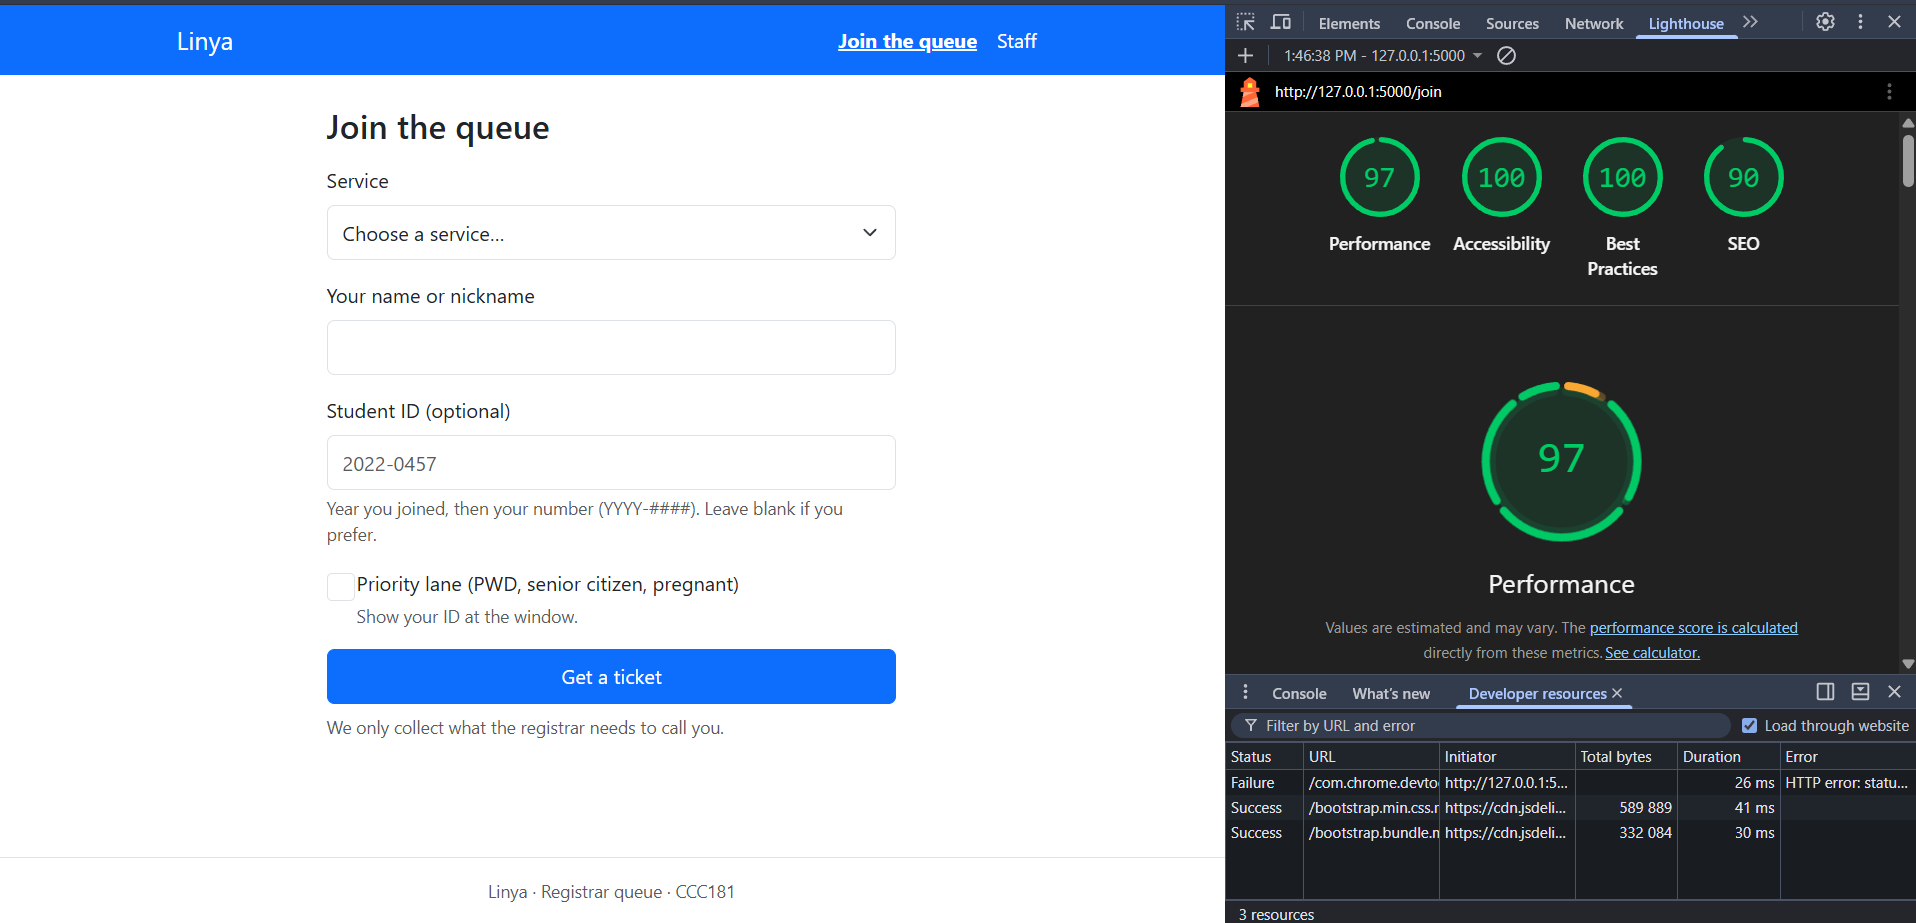
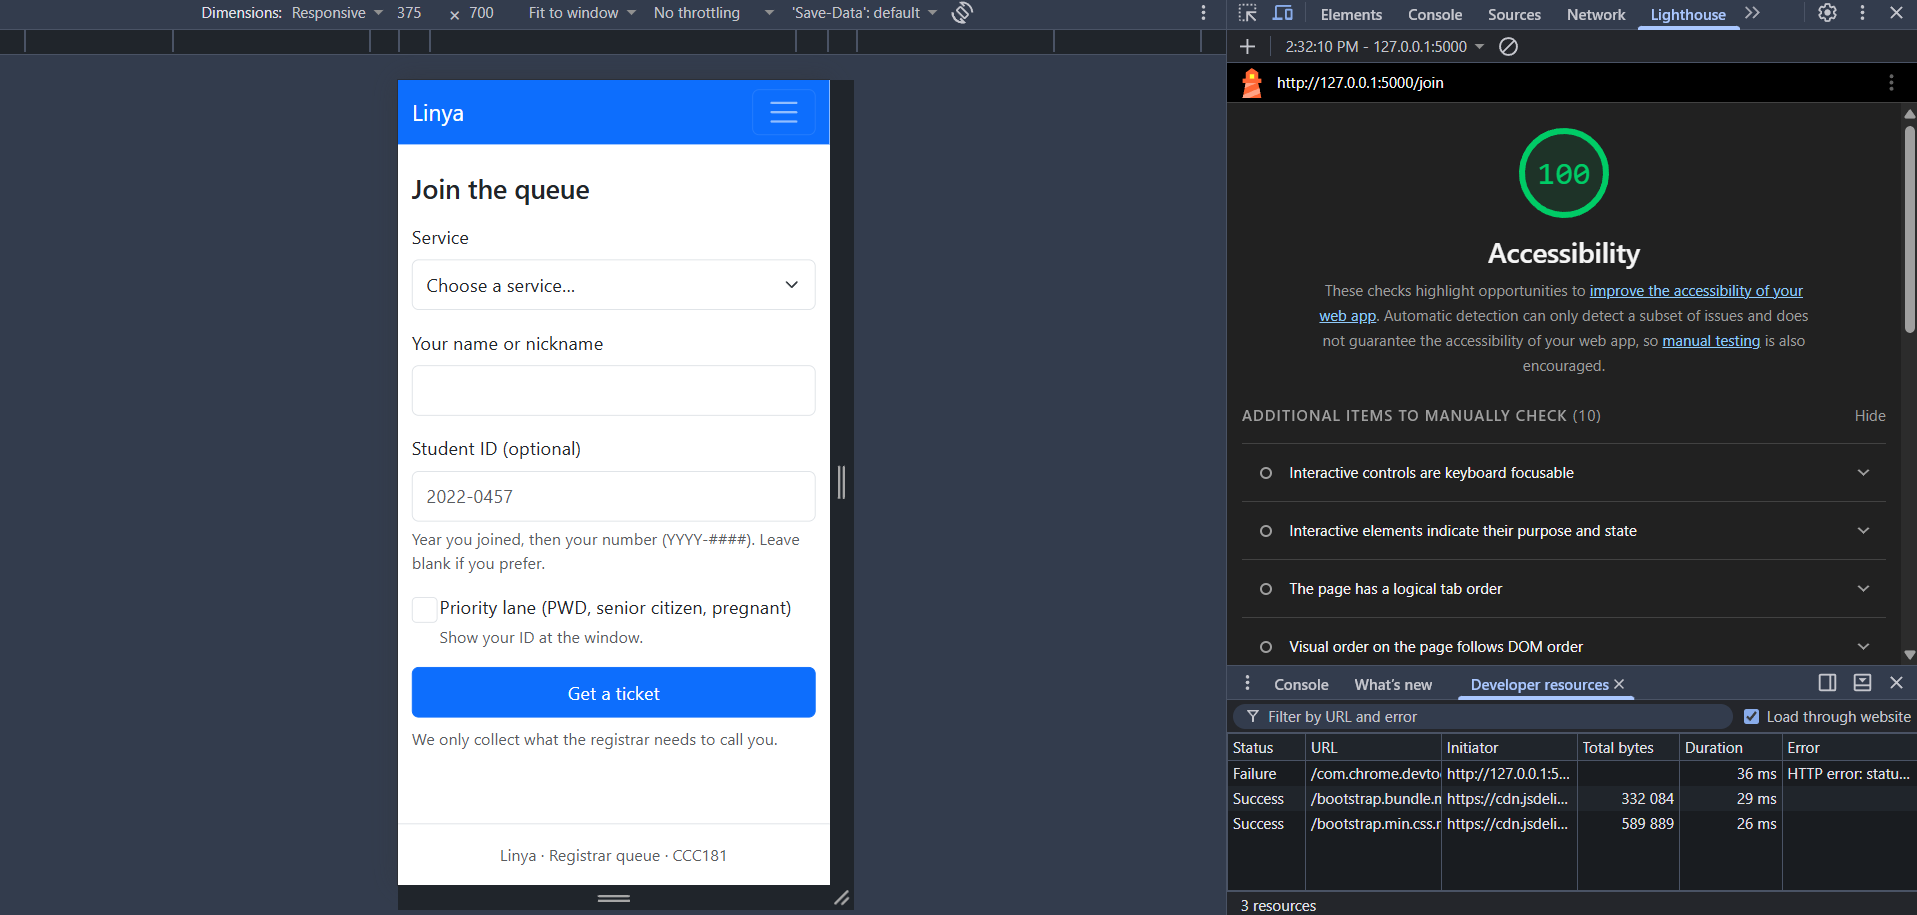
Revised

diff --git a/templates/ticket.html b/templates/ticket.html
@@ -48,7 +48,7 @@
     </div>
 
     {% if ticket.status in ('waiting', 'called') %}
-      <form id="leave_form" method="post" action="{{ url_for('leave_queue', ticket_id=ticket.number) }}"
+      <form id="leave-form" method="post" action="{{ url_for('leave_queue', ticket_id=ticket.number) }}"
             class="mt-3"
             onsubmit="return confirm('Leave the queue? You will lose your place.');">
         <button type="submit" class="btn btn-outline-danger w-100">Leave the queue</button>

diff --git a/static/css/style.css b/static/css/style.css
@@ -10,3 +10,12 @@
 /* tap targets of about 44 px */
 .btn, .form-control, .form-select { min-height: 44px; }
 .form-check-input { width: 1.4em; height: 1.4em; }
+
+/* Visible keyboard focus everywhere */
+a:focus-visible, button:focus-visible, .btn:focus-visible,
+.form-control:focus-visible, .form-select:focus-visible,
+.form-check-input:focus-visible {
+  outline: 3px solid #ffbf47;
+  outline-offset: 2px;
+}
+.navbar .nav-link:focus-visible { outline-color: #ece979; }

diff --git a/app.py b/app.py
@@ -5,7 +5,6 @@ Run it with:
 then open http://127.0.0.1:5000
 """
 import re
-import time
 
 from flask import Flask, abort, flash, redirect, render_template, request, url_for
 
@@ -46,7 +45,6 @@ def join():
     student_id = form.get("student_id", "").strip()
     service_id = form.get("service_id", type=int)
     priority = form.get("priority") == "on"
-    time.sleep(2)
 
     errors = {}
     if not name:

diff --git a/README.md b/README.md
@@ -1,136 +1,23 @@
 # Linya
 
-Note: the staff dashboard has no login yet. Staff login is planned for a later week.
+Linya is a queue system for the campus registrar. Students get a queue number for requests like the Transcript of Records (TOR), see how many people are ahead of them, and know when and where to go, so they can sit down instead of standing in line. Registrar staff use a dashboard to call the next student to a window and mark tickets served or no-show.
 
-Starter Flask app for **CCC181 Week 2: Git, GitHub & Flask Foundations**.
-It shows the project structure, routes, templates and static files from the slides.
+## Run it
 
-## Project structure
+    python -m venv .venv
+    .venv\Scripts\activate          # macOS/Linux: source .venv/bin/activate
+    pip install -r requirements.txt
+    flask --app app run --debug
 
-```
-my-app/
-├── app.py              # creates the app and defines routes
-├── requirements.txt    # packages to rebuild the environment
-├── .gitignore          # keeps .venv, caches and secrets out of Git
-├── .venv/              # your virtual environment (not committed)
-├── templates/          # Jinja2 HTML files for render_template()
-│   ├── base.html       # shared layout
-│   ├── index.html      # home page
-│   └── ticket.html     # page for /queue/<ticket_id>
-└── static/             # served at /static/...
-    ├── css/style.css
-    └── js/main.js
-```
+Then open http://127.0.0.1:5000.
 
-## Routes
+## Screens
 
-| URL | View function | What you see |
-|---|---|---|
-| `/` | `index()` | "Hello, Ana!" and a list of tickets, rendered with `index.html` |
-| `/queue/<int:ticket_id>` | `ticket()` | A page for that ticket, e.g. `/queue/12` |
-| `/hello` | `hello()` | The plain text "Hello, CCC181!" |
+| URL | Screen |
+| --- | --- |
+| `/` | Home |
+| `/join` | Join the queue |
+| `/queue/<number>` | My place (ticket number, status, people ahead) |
+| `/staff` | Staff dashboard |
 
-Try `/queue/abc`: the `int` converter only accepts numbers, so Flask returns 404.
-
-## 1. Set up the Python environment
-
-```bash
-# create (once per project)
-python -m venv .venv
-
-# activate (every new terminal)
-.venv\Scripts\activate          # Windows
-source .venv/bin/activate       # macOS/Linux
-
-# install the packages
-pip install -r requirements.txt
-```
-
-Your prompt shows `(.venv)` when the environment is active. Some systems use `python3` or `py` instead of `python`.
-If PowerShell blocks the activate script, run `Set-ExecutionPolicy -Scope CurrentUser RemoteSigned` once, or use Command Prompt.
-
-If you add more packages later, record them with:
-
-```bash
-pip freeze > requirements.txt
-```
-
-## 2. Run the app
-
-```bash
-flask --app app run --debug
-```
-
-Open http://127.0.0.1:5000. With `--debug`, the server reloads every time you save a file. Never use debug mode in production.
-
-## 3. Put it on GitHub
-
-### Once per computer
-
-```bash
-git config --global user.name "Your Name"
-git config --global user.email you@g.msuiit.edu.ph   # same email as your GitHub account
-git config --list
-```
-
-### Create the local repository and first commit
-
-```bash
-git init
-git branch -M main
-git status              # .venv should NOT appear, thanks to .gitignore
-git add .
-git commit -m "Add Flask starter app"
-```
-
-### Connect to GitHub and push
-
-1. On GitHub, create a new **empty** repository (no README, no .gitignore).
-2. Copy its URL, then:
-
-```bash
-git remote add origin <repo-url>
-git push -u origin main
-```
-
-GitHub does not accept your account password for Git over HTTPS. Sign in through Git Credential Manager or the GitHub CLI, or use a personal access token or SSH key.
-
-### Everyday loop
-
-```bash
-git pull origin main     # before you start working
-git status
-git add <file>
-git commit -m "Add join-queue form"
-git push origin main     # when you have commits to share
-```
-
-## 4. Lab: ship it through a pull request
-
-1. On GitHub, open an issue: **"Set up Flask starter app"**.
-2. Pull the latest `main`, then create a branch:
-   ```bash
-   git switch main
-   git pull origin main
-   git switch -c feature/flask-setup
-   ```
-3. Create `.venv`, install Flask, write `requirements.txt` and `.gitignore`.
-4. Build `app.py` with a home route and one dynamic route, rendered with `base.html` and `index.html`.
-5. Commit in small steps, then push the branch:
-   ```bash
-   git push -u origin feature/flask-setup
-   ```
-6. On GitHub, click **Compare & pull request** and write `Closes #N` in the description (N is your issue number). Merge it, then:
-   ```bash
-   git switch main
-   git pull origin main
-   ```
-
-**Early finishers:** add another static CSS rule linked with `url_for`, or a third route based on one Must feature from your project milestone.
-
-## Commit message tips
-
-- Short summary in the imperative: "Add...", "Fix..."
-- One logical change per commit
-- Commit early and often
-- Good: "Add join-queue form". Unhelpful: "update", "asdf", "final na talaga".
+Note: the staff dashboard has no login yet. Staff login is planned for a later week. Tickets live in a Python list, so they reset when the server restarts; Week 4 moves them into PostgreSQL.

diff --git a/docs/week3/accessibility.md b/docs/week3/accessibility.md
@@ -19,8 +19,8 @@
 
 | Check | Join | My place | Staff |
 | --- | --- | --- | --- |
-| Every input has a visible label | ✅ | ✅ | ✅ |
-| Error messages say what to do, in text | ✅ | ✅  ✅| |
+| Every input has a visible label | ✅ | N/A | ✅ |
+| Error messages say what to do, in text | ✅ | N/A | ✅ |
 | Status shown in words, not only color | ✅ | ✅ | ✅ |
 | Readable at 375 px, no sideways page scroll | ✅ | ✅ | Table Goes Sideways |
 | Buttons about 44 × 44 px | ✅ | ✅ | ✅ |
